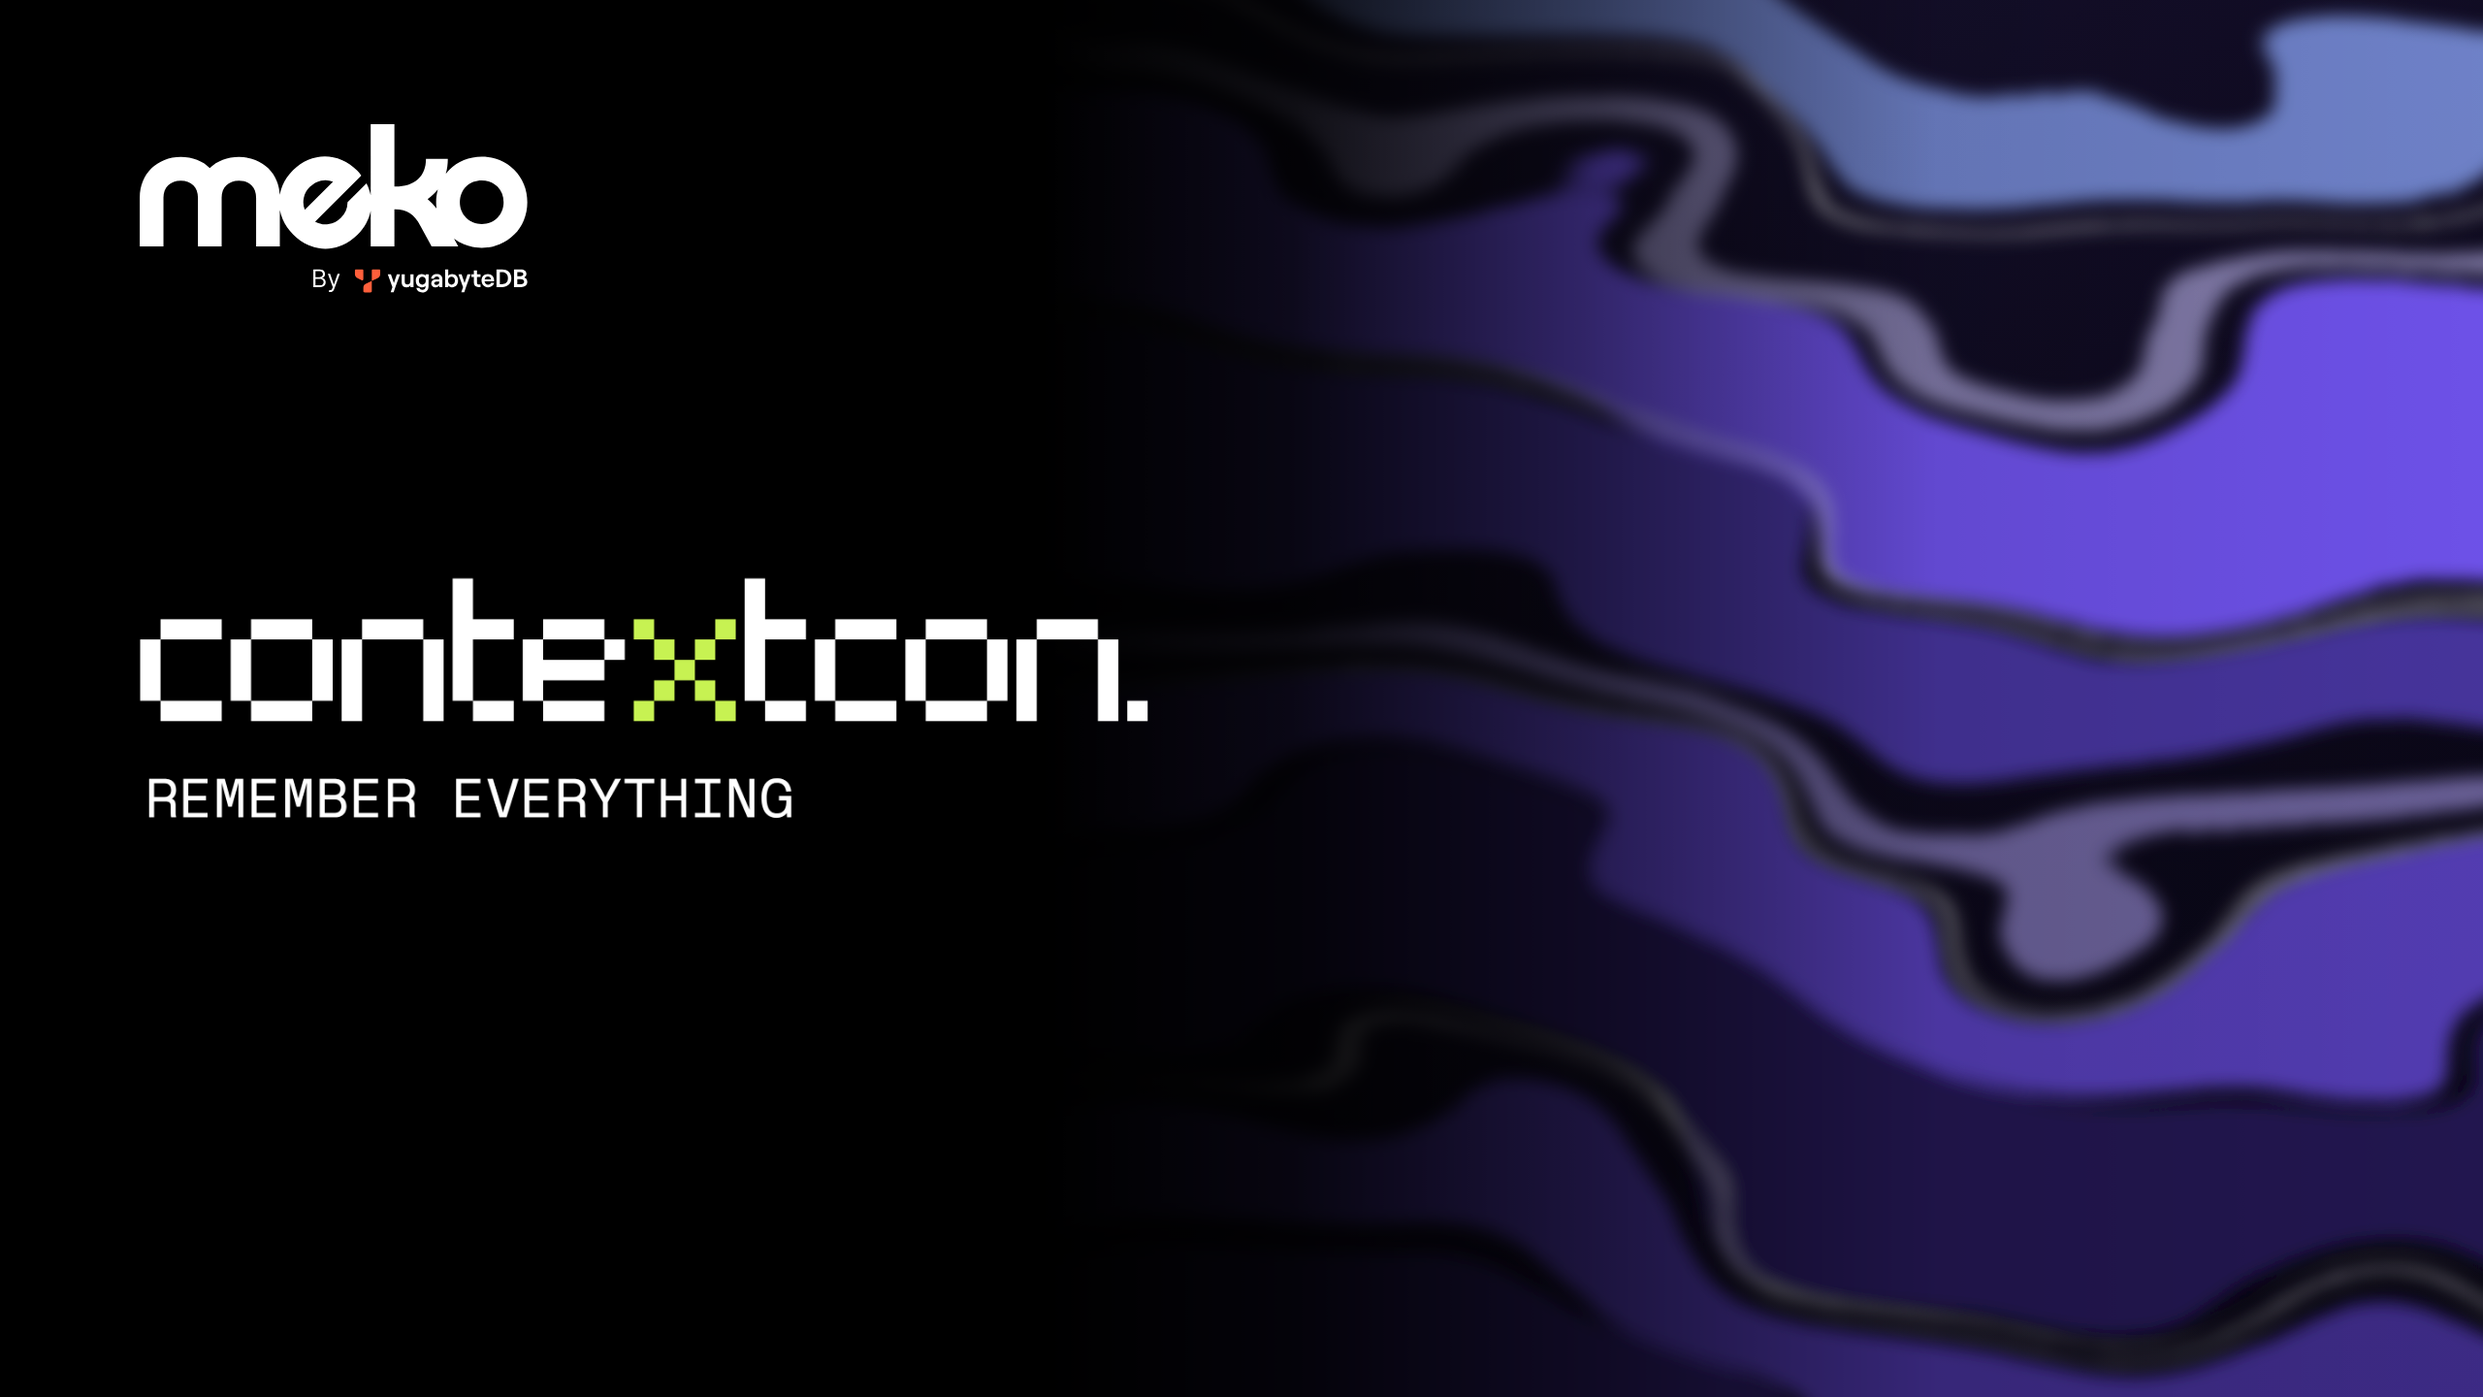
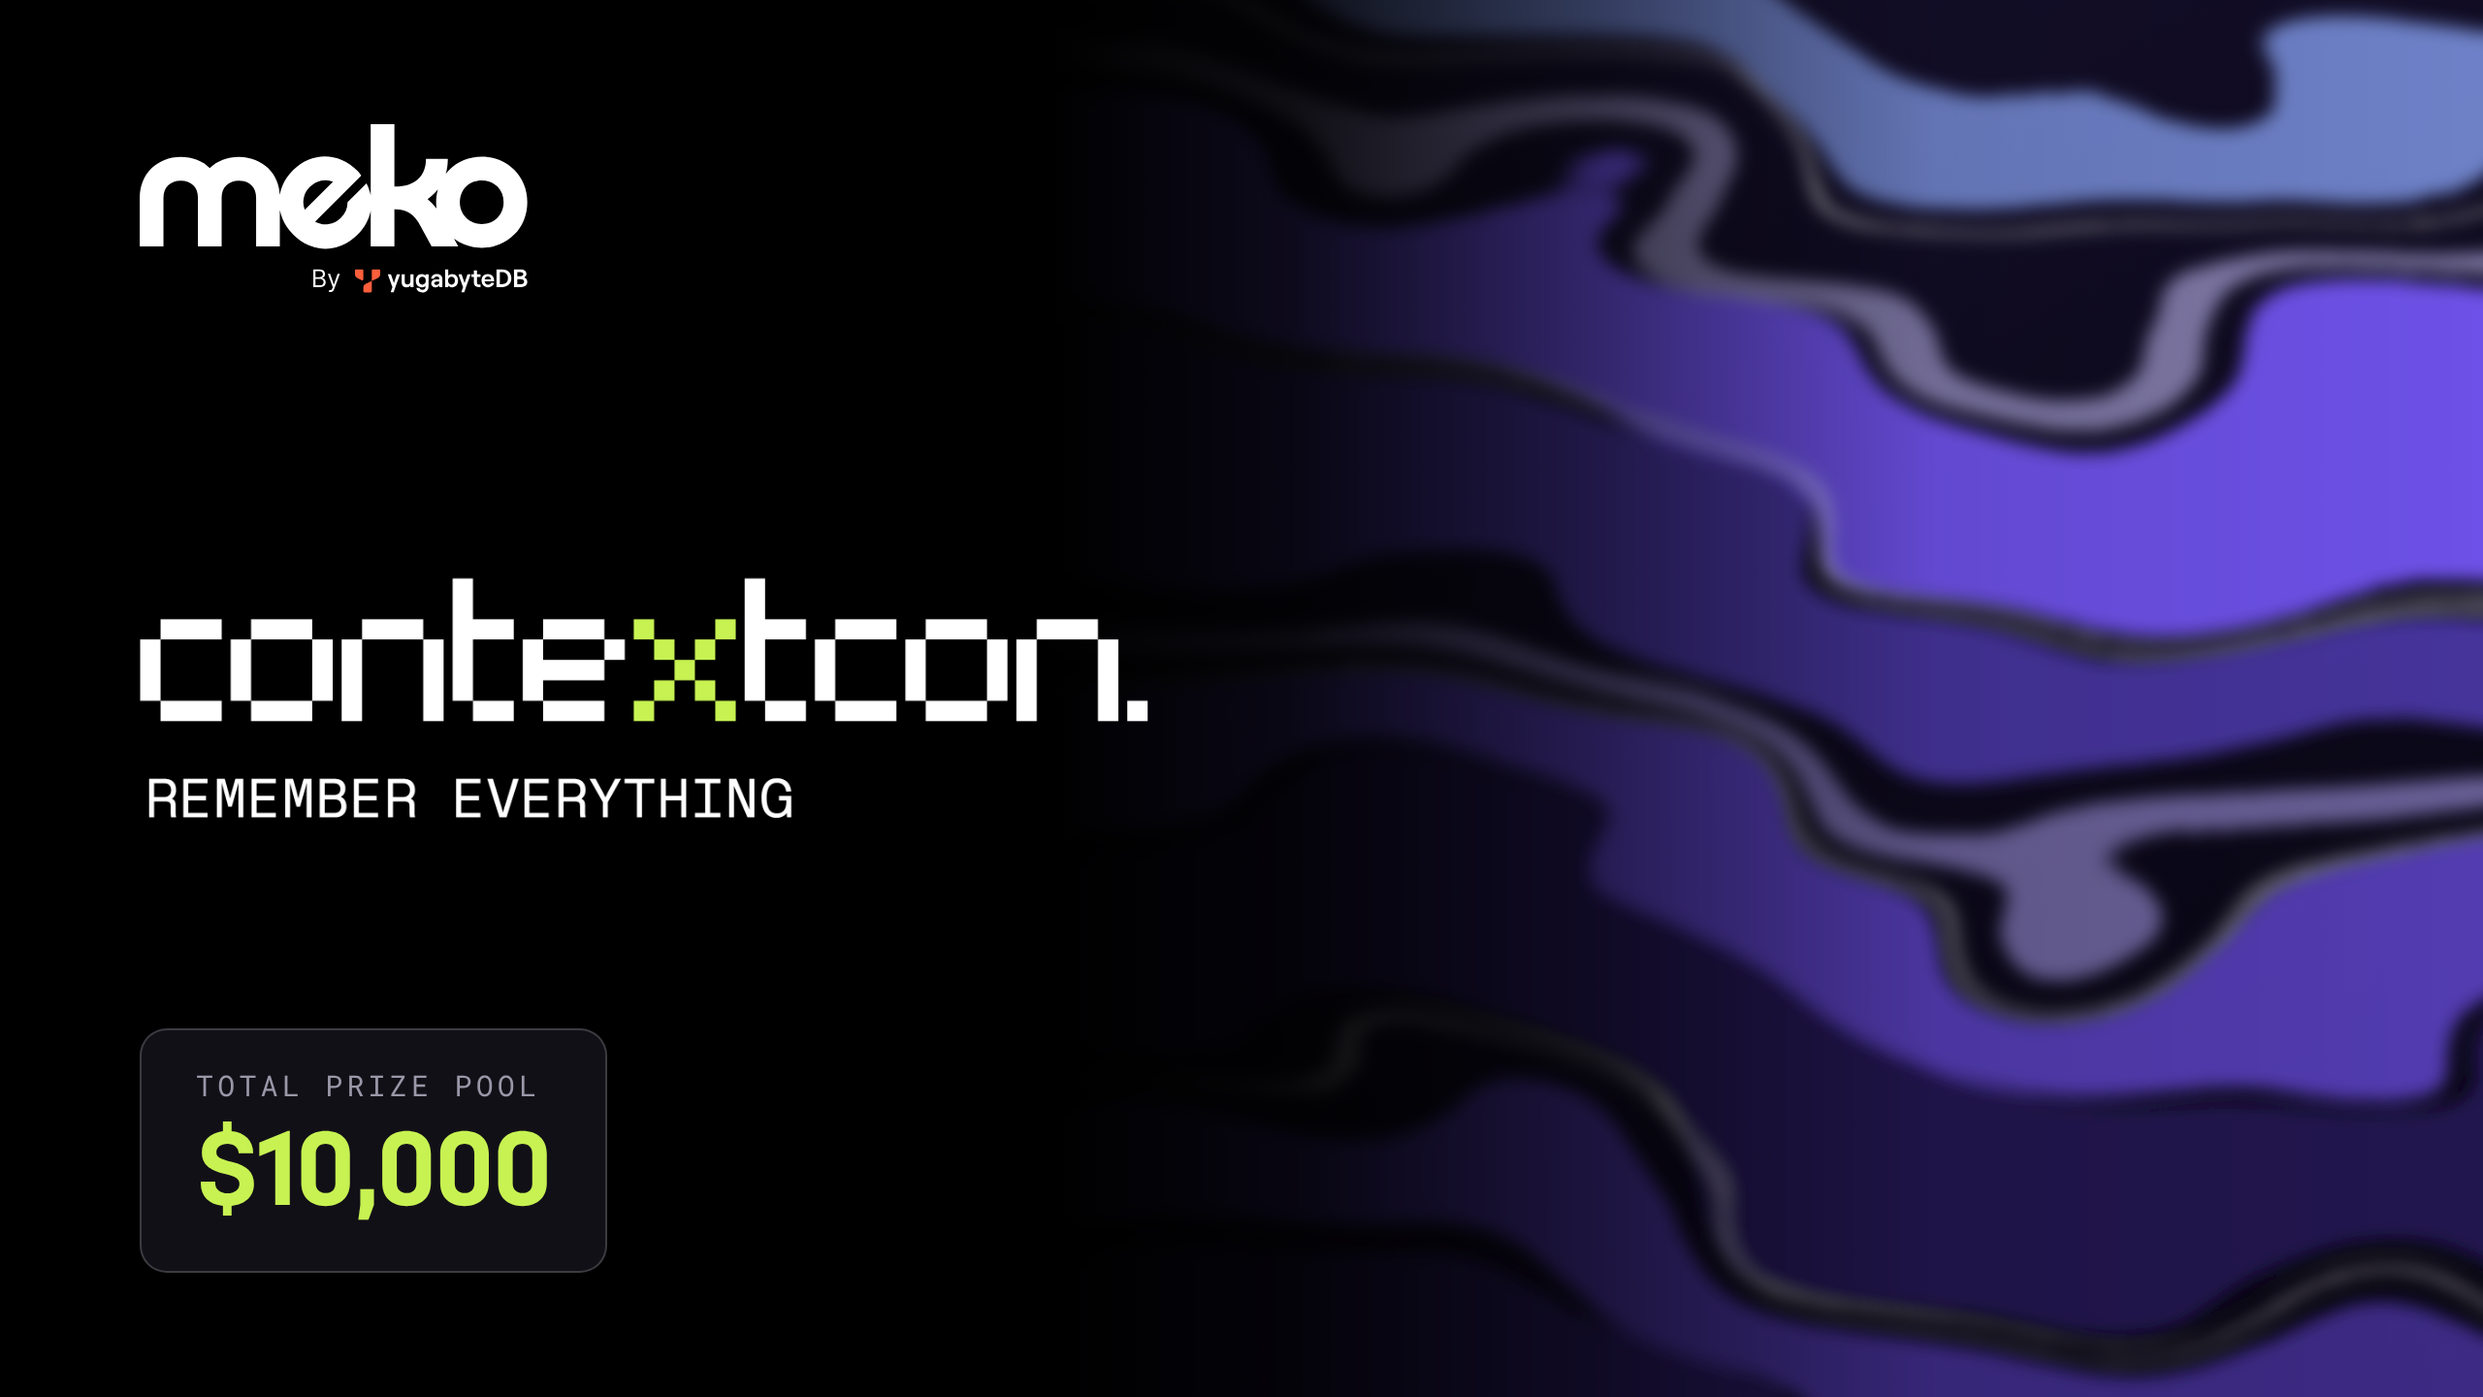
Listing image: add $10,000 total prize pool panel
Claude-Session: https://claude.ai/code/session_011WvSfbuXTc2R9BKwTF66Kj

Changed region(s): [[0.0625, 0.8125, 0.2188, 0.875], [0.1875, 0.75, 0.2188, 0.7812], [0.125, 0.75, 0.1562, 0.7812]]

diff --git a/banners/contextcon-listing-1280x720.html b/banners/contextcon-listing-1280x720.html
@@ -4,9 +4,13 @@
 <meta charset="utf-8">
 <meta name="viewport" content="width=device-width, initial-scale=1">
 <title>ContextCon listing</title>
+<link rel="preconnect" href="https://fonts.googleapis.com">
+<link rel="preconnect" href="https://fonts.gstatic.com" crossorigin>
+<link href="https://fonts.googleapis.com/css2?family=Roboto+Mono:wght@400&display=swap" rel="stylesheet">
 <style>
+@font-face{font-family:'Bloka';src:url('../Bloka-Bold.otf') format('opentype');font-weight:700;font-display:block}
 /* Meko brand tokens — from meko-brand-guidelines v0.2 */
-:root{--ground:#000000}
+:root{--ground:#000000;--panel:#121017;--muted:#9a97a8;--line-2:rgba(255,255,255,.18);--lime:#c7f252;--mono:'Roboto Mono',ui-monospace,monospace}
 *{box-sizing:border-box}
 html,body{margin:0;background:var(--ground)}
 body{min-height:100vh;display:grid;place-items:center}
@@ -17,6 +21,9 @@ body{min-height:100vh;display:grid;place-items:center}
 .meko svg{display:block;width:100%;height:auto}
 .cc{position:absolute;left:72px;top:50%;transform:translateY(-50%);width:520px;margin:0}
 .cc img{display:block;width:100%;height:auto}
+.prize{position:absolute;left:72px;bottom:64px;margin:0;background:var(--panel);border:1px solid var(--line-2);border-radius:14px;padding:18px 28px 20px;-webkit-font-smoothing:antialiased}
+.prize .k{display:block;font-family:var(--mono);font-size:15px;letter-spacing:.14em;text-transform:uppercase;color:var(--muted)}
+.prize .v{display:block;margin-top:10px;font-family:'Bloka',sans-serif;font-size:56px;line-height:1;font-weight:700;letter-spacing:-.0225em;color:var(--lime)}
 </style>
 </head>
 <body>
@@ -64,6 +71,7 @@ body{min-height:100vh;display:grid;place-items:center}
   </svg>
   <div class="meko"><svg xmlns="http://www.w3.org/2000/svg" role="img" aria-label="Meko by YugabyteDB" viewBox="0 0 943.4 409.61"><path fill="#ffffff" d="M 881.02 210.62 C 878.36 217.12 874.66 222.82 869.94 227.69 C 865.21 232.55 859.59 236.33 853.08 238.99 C 846.58 241.65 839.18 242.98 831.79 242.98 C 824.41 242.98 817.46 241.65 810.95 238.99 C 804.45 236.33 798.77 232.55 793.88 227.69 C 789.02 222.82 785.24 217.12 782.58 210.62 C 779.93 204.12 778.59 197.18 778.59 189.78 C 778.59 182.09 779.93 174.99 782.58 168.49 C 785.24 161.98 789.02 156.36 793.88 151.64 C 798.75 146.91 804.45 143.21 810.95 140.55 C 817.46 137.89 824.39 136.56 831.79 136.56 C 847.17 136.56 859.88 141.59 869.94 151.64 C 879.98 161.7 885.01 174.42 885.01 189.78 C 885.01 197.16 883.68 204.12 881.02 210.62 M 700.15 182.27 C 709.77 175.62 718.07 167.79 725.09 158.77 C 722.32 168.58 720.94 178.91 720.94 189.78 C 720.94 195.04 721.28 200.22 721.96 205.27 C 715.19 196.5 707.91 188.84 700.15 182.27 M 401.55 208.27 C 397.78 198.64 396.95 188.92 399.04 179.09 C 401.12 169.26 406.15 160.37 414.09 152.43 C 422.04 144.48 430.98 139.42 440.9 137.23 C 450.84 135.04 460.61 135.82 470.22 139.58 Z M 934.22 146.1 C 928.61 132.66 920.76 120.91 910.72 110.85 C 900.68 100.81 888.93 92.98 875.47 87.35 C 862.01 81.75 847.17 78.93 831.79 78.93 C 816.41 78.93 801.93 81.75 788.33 87.35 C 774.73 92.96 762.98 100.81 753.08 110.85 C 750.05 113.94 747.19 117.2 744.51 120.62 C 747.77 109.36 749.38 97.23 749.38 84.26 L 696.16 84.26 C 696.16 105.55 689.66 122.12 676.65 133.94 C 663.65 145.76 645.3 151.67 621.66 151.67 L 619.45 151.67 L 619.45 0 L 561.79 0 L 561.79 173 C 559.89 162.99 556.46 153.22 551.46 143.64 L 505.36 189.74 C 505.79 203.95 500.46 216.6 489.37 227.69 C 480.59 236.45 470.51 241.65 459.12 243.21 C 447.71 244.79 436.91 242.74 426.65 237.1 L 538.92 124.83 C 535.37 120.03 532.02 116.06 528.88 112.92 C 517.6 101.62 505.18 93.1 491.71 87.35 C 478.25 81.62 464.54 78.69 450.64 78.59 C 436.75 78.48 423.11 81.26 409.73 86.9 C 396.32 92.54 384 101.01 372.72 112.29 C 361.42 123.59 352.97 135.91 347.31 149.3 C 344.2 156.67 341.98 164.11 340.61 171.63 C 339.96 159.95 337.59 149.01 333.48 138.81 C 328.59 126.7 321.73 116.28 312.85 107.55 C 303.98 98.83 293.48 92.04 281.36 87.16 C 269.23 82.29 255.63 79.84 241.44 79.84 C 227.24 79.84 214.09 82.21 201.96 86.94 C 189.84 91.68 179.34 98.33 170.47 106.9 C 161.88 98.33 151.55 91.66 139.43 86.94 C 127.3 82.21 114.45 79.84 99.95 79.84 C 85.45 79.84 72.16 82.29 60.03 87.16 C 47.9 92.02 37.41 98.83 28.54 107.55 C 19.68 116.26 12.73 126.68 7.7 138.81 C 2.66 150.93 0.15 164.09 0.15 178.28 L 0.15 297.13 L 57.8 297.13 L 57.8 178.71 C 57.8 166.3 61.65 156.32 69.34 148.78 C 77.03 141.25 87.21 137.48 99.93 137.48 L 99.99 137.48 C 112.71 137.48 122.84 141.25 130.37 148.78 C 137.89 156.31 141.67 166.3 141.67 178.71 L 141.67 297.13 L 199.32 297.13 L 199.32 178.71 C 199.32 166.3 203.17 156.32 210.86 148.78 C 218.55 141.25 228.73 137.48 241.45 137.48 C 254.18 137.48 264.31 141.25 271.84 148.78 C 279.36 156.31 283.14 166.3 283.14 178.71 L 283.14 297.13 L 340.79 297.13 L 340.79 208.61 C 342.25 216.24 344.58 223.79 347.78 231.3 C 353.53 244.79 362.04 257.17 373.33 268.47 L 373.36 268.47 C 384.86 279.97 397.35 288.59 410.84 294.32 C 424.32 300.09 437.95 302.95 451.75 302.95 C 465.55 302.95 479.15 300.14 492.52 294.49 C 505.92 288.84 518.25 280.38 529.53 269.08 C 538.31 260.31 545.46 250.74 551.02 240.39 C 556.24 230.62 559.84 220.62 561.79 210.39 L 561.79 297.11 L 619.45 297.11 L 619.45 207.08 L 621.66 207.08 C 635.55 207.08 647.3 210.26 656.91 216.62 C 666.52 223 675.16 233.26 682.85 247.45 L 709.91 297.13 L 774.66 297.13 L 764.47 278.35 C 771.66 283.76 779.62 288.29 788.33 291.99 C 801.93 297.76 816.13 300.63 831.79 300.63 C 847.46 300.63 862.01 297.76 875.47 291.99 C 888.91 286.22 900.66 278.41 910.72 268.49 C 920.76 258.59 928.59 246.84 934.22 233.24 C 939.82 219.64 942.64 205.45 942.64 189.78 C 942.64 174.11 939.82 159.56 934.22 146.1 "/><path fill="#ffffff" d="M 926.7 389.04 L 918.33 389.04 L 918.33 376.73 L 926.7 376.73 C 932.21 376.73 934.87 379 934.87 382.93 C 934.87 386.88 932.21 389.04 926.7 389.04 M 918.33 359.5 L 926.3 359.5 C 930.73 359.5 932.9 361.38 932.9 364.72 C 932.9 368.07 930.73 369.84 926.4 369.84 L 918.33 369.84 Z M 935.26 372.6 C 937.92 371.22 940.48 368.17 940.48 364.04 C 940.48 356.95 934.87 353.01 926.99 353.01 L 910.26 353.01 L 910.26 396.12 L 927.59 396.12 C 936.64 396.12 942.64 391.4 942.64 383.32 C 942.64 377.62 939.3 374.07 935.27 372.59 Z M 935.26 372.6 "/><path fill="#ffffff" d="M 881.13 389.04 L 875.91 389.04 L 875.91 360 L 881.13 360 C 888.51 360 895.59 363.84 895.59 374.57 C 895.59 385.3 888.51 389.04 881.13 389.04 Z M 881.71 353.01 L 867.74 353.01 L 867.74 396.12 L 881.71 396.12 C 893.73 396.12 903.87 388.94 903.87 374.57 C 903.87 360.2 893.73 353.01 881.71 353.01 Z M 881.71 353.01 "/><path fill="#ffffff" d="M 846.67 370.24 C 851.2 370.24 853.85 373.19 854.25 377.13 L 838.89 377.13 C 839.68 372.5 842.44 370.24 846.67 370.24 Z M 854.54 385.79 C 853.76 388.74 851.2 390.32 847.26 390.32 C 842.54 390.32 839.29 387.17 838.7 382.15 L 861.63 382.15 C 861.76 381.3 861.82 380.45 861.82 379.59 C 861.82 372.11 857.1 364.53 846.67 364.53 C 836.23 364.53 831.41 372.3 831.41 380.47 C 831.41 388.64 837.12 396.62 847.26 396.62 C 854.94 396.62 860.74 392.39 861.92 385.79 Z M 854.54 385.79 "/><path fill="#ffffff" d="M 828.86 371.42 L 828.86 365.02 L 820.29 365.02 L 820.29 355.66 L 812.71 355.66 L 812.71 365.02 L 806.61 365.02 L 806.61 371.42 L 812.71 371.42 L 812.71 385.3 C 812.71 392.19 817.14 396.12 823.93 396.12 L 828.86 396.12 L 828.86 389.73 L 824.72 389.73 C 821.97 389.73 820.29 388.15 820.29 385 L 820.29 371.42 Z M 828.86 371.42 "/><path fill="#ffffff" d="M 797.16 365.02 L 790.07 386.38 L 782.79 365.02 L 775.11 365.02 L 786.43 396.12 L 782.1 408.72 L 789.28 408.72 L 794.11 394.64 L 804.93 365.02 L 797.16 365.02 Z M 797.16 365.02 "/><path fill="#ffffff" d="M 758.27 390.12 C 753.25 390.12 749.9 386.29 749.9 380.57 C 749.9 374.86 753.25 371.12 758.27 371.12 C 763.29 371.12 766.64 374.86 766.64 380.57 C 766.64 386.28 763.29 390.12 758.27 390.12 M 759.55 364.53 C 755.52 364.53 752.17 366.3 750.39 368.86 L 750.39 353.02 L 742.82 353.02 L 742.82 396.12 L 750.39 396.12 L 750.39 392.29 C 752.17 394.95 755.62 396.62 759.36 396.62 C 768.71 396.62 774.22 390.12 774.22 380.57 C 774.22 371.02 768.71 364.53 759.55 364.53 Z M 759.55 364.53 "/><path fill="#ffffff" d="M 728.64 383.04 C 728.64 387.66 725.89 391 721.16 391 C 718.31 391 716.34 389.43 716.34 386.97 C 716.34 384.31 718.51 382.54 721.66 382.54 L 728.64 382.54 Z M 722.64 364.53 C 714.57 364.53 709.35 369.35 708.96 375.55 L 715.75 375.55 C 715.85 372.8 718.31 370.24 722.35 370.24 C 726.38 370.24 728.64 372.41 728.64 375.45 C 728.64 376.64 727.96 377.52 726.38 377.52 L 720.67 377.52 C 713.69 377.52 708.96 381.26 708.96 387.37 C 708.96 392.68 713.19 396.62 719.3 396.62 C 723.82 396.62 727.36 394.55 728.64 391.5 L 728.64 396.12 L 736.13 396.12 L 736.13 376.14 C 736.13 369.16 730.52 364.53 722.64 364.53 Z M 722.64 364.53 "/><path fill="#ffffff" d="M 658.36 365.02 L 658.36 382.05 C 658.36 386.58 655.31 389.92 651.07 389.92 C 646.84 389.92 644.58 386.97 644.58 382.74 L 644.58 365.02 L 637.1 365.02 L 637.1 384.31 C 637.1 391.59 641.43 396.61 648.62 396.61 C 653.04 396.61 656.59 394.75 658.36 391.3 L 658.36 396.12 L 665.95 396.12 L 665.95 365.02 Z M 658.36 365.02 "/><path fill="#ffffff" d="M 625.38 365.02 L 618.2 386.38 L 611.02 365.02 L 603.34 365.02 L 614.65 396.12 L 610.32 408.72 L 617.51 408.72 L 622.33 394.64 L 633.16 365.02 Z M 625.38 365.02 "/><path fill="#ffffff" d="M 687.3 390.12 C 682.28 390.12 678.93 386.28 678.93 380.57 C 678.93 374.86 682.28 371.12 687.3 371.12 C 692.32 371.12 695.77 374.86 695.77 380.57 C 695.77 386.27 692.42 390.12 687.3 390.12 M 695.18 365.02 L 695.18 368.56 C 693.41 366.2 690.06 364.53 686.12 364.53 C 676.87 364.53 671.45 371.12 671.45 380.57 C 671.45 390.02 676.87 396.62 686.22 396.62 C 690.75 396.62 693.7 395.04 695.27 392.68 L 695.27 393.18 C 695.27 398.98 693.41 402.92 687.3 402.92 C 683.46 402.92 681.5 401.35 680.21 398.29 L 672.64 398.29 C 674.31 405.87 679.43 409.22 687.3 409.22 C 697.14 409.22 702.46 403.31 702.46 393.18 L 702.76 365.02 L 695.18 365.02 Z M 695.18 365.02 "/><path fill="#ff5f3b" d="M 539.94 353.01 C 541.34 353.01 542.05 353.01 542.59 353.28 C 543.05 353.52 543.44 353.91 543.68 354.38 C 543.95 354.91 543.95 355.62 543.95 357.02 L 543.95 374.68 C 543.95 376.77 543.95 377.82 543.51 378.46 C 543.12 379.02 542.53 379.41 541.86 379.52 C 541.09 379.64 540.14 379.2 538.24 378.32 L 533.3 376.01 C 529.73 374.35 527.94 373.52 526.63 372.23 C 525.48 371.09 524.6 369.71 524.05 368.18 C 523.45 366.45 523.45 364.48 523.45 360.55 L 523.45 357.02 C 523.45 355.62 523.45 354.91 523.72 354.38 C 523.96 353.91 524.34 353.52 524.81 353.28 C 525.35 353.01 526.05 353.01 527.46 353.01 Z M 539.94 353.01 "/><path fill="#ff5f3b" d="M 580.96 353.01 C 582.37 353.01 583.07 353.01 583.61 353.28 C 584.08 353.52 584.46 353.91 584.71 354.38 C 584.98 354.91 584.98 355.62 584.98 357.02 L 584.98 360.55 C 584.98 364.49 584.98 366.46 584.37 368.18 C 583.83 369.71 582.95 371.1 581.79 372.23 C 580.48 373.52 578.7 374.35 575.13 376.01 L 564.47 380.98 L 564.47 357.02 C 564.47 355.62 564.47 354.91 564.74 354.38 C 564.98 353.91 565.37 353.52 565.84 353.28 C 566.38 353.01 567.08 353.01 568.48 353.01 Z M 580.96 353.01 "/><path fill="#ff5f3b" d="M 564.47 380.98 L 564.47 404.95 C 564.47 406.35 564.47 407.05 564.2 407.59 C 563.95 408.06 563.57 408.45 563.1 408.69 C 562.56 408.96 561.86 408.96 560.45 408.96 L 547.97 408.96 C 546.57 408.96 545.86 408.96 545.33 408.69 C 544.86 408.45 544.47 408.06 544.23 407.59 C 543.96 407.05 543.96 406.35 543.96 404.95 L 543.96 401.42 C 543.96 397.48 543.96 395.51 544.57 393.78 C 545.11 392.25 545.99 390.87 547.15 389.73 C 548.46 388.45 550.24 387.62 553.81 385.95 Z M 564.47 380.98 "/><path fill="#ffffff" d="M 427.5 391.49 L 437.88 391.49 C 441.29 391.49 443.71 390.83 445.16 389.5 C 446.6 388.17 447.32 386.56 447.32 384.66 C 447.32 383.2 446.95 381.85 446.2 380.61 C 445.46 379.36 444.39 378.36 443.02 377.61 C 441.64 376.86 440.01 376.48 438.13 376.48 L 427.5 376.48 Z M 427.5 371.93 L 437.2 371.93 C 438.77 371.93 440.2 371.62 441.47 371 C 442.74 370.38 443.75 369.52 444.5 368.39 C 445.26 367.27 445.63 365.95 445.63 364.43 C 445.63 362.53 444.97 360.92 443.65 359.59 C 442.33 358.26 440.23 357.6 437.37 357.6 L 427.5 357.6 Z M 422.28 396.13 L 422.28 352.96 L 437.37 352.96 C 440.38 352.96 442.86 353.48 444.81 354.51 C 446.76 355.54 448.22 356.93 449.17 358.66 C 450.13 360.4 450.61 362.32 450.61 364.43 C 450.61 366.28 450.28 367.81 449.62 369.02 C 448.97 370.23 448.12 371.19 447.05 371.89 C 446 372.59 444.84 373.11 443.61 373.45 L 443.61 373.87 C 444.93 373.96 446.26 374.42 447.59 375.26 C 448.93 376.11 450.04 377.31 450.95 378.89 C 451.84 380.46 452.29 382.39 452.29 384.66 C 452.29 386.82 451.8 388.77 450.82 390.5 C 449.83 392.23 448.28 393.6 446.16 394.61 C 444.04 395.62 441.28 396.13 437.88 396.13 Z M 422.28 396.13 "/><path fill="#ffffff" d="M 463.42 408.19 C 462.58 408.19 461.83 408.12 461.17 407.98 C 460.5 407.85 460.05 407.72 459.8 407.59 L 461.06 403.21 C 462.88 403.68 464.38 403.66 465.59 403.18 C 466.8 402.7 467.85 401.24 468.73 398.83 L 469.66 396.3 L 457.69 363.75 L 463.09 363.75 L 472.02 389.55 L 472.36 389.55 L 481.3 363.75 L 486.73 363.84 L 472.95 400.85 C 472.33 402.5 471.57 403.86 470.65 404.95 C 469.74 406.04 468.68 406.85 467.48 407.38 C 466.28 407.92 464.93 408.19 463.42 408.19 "/></svg></div>
   <h1 class="cc"><img src="assets/contextcon-logo-white.png" alt="ContextCon: Remember everything"></h1>
+  <p class="prize"><span class="k">Total prize pool</span><span class="v">$10,000</span></p>
 </main>
 </body>
 </html>
